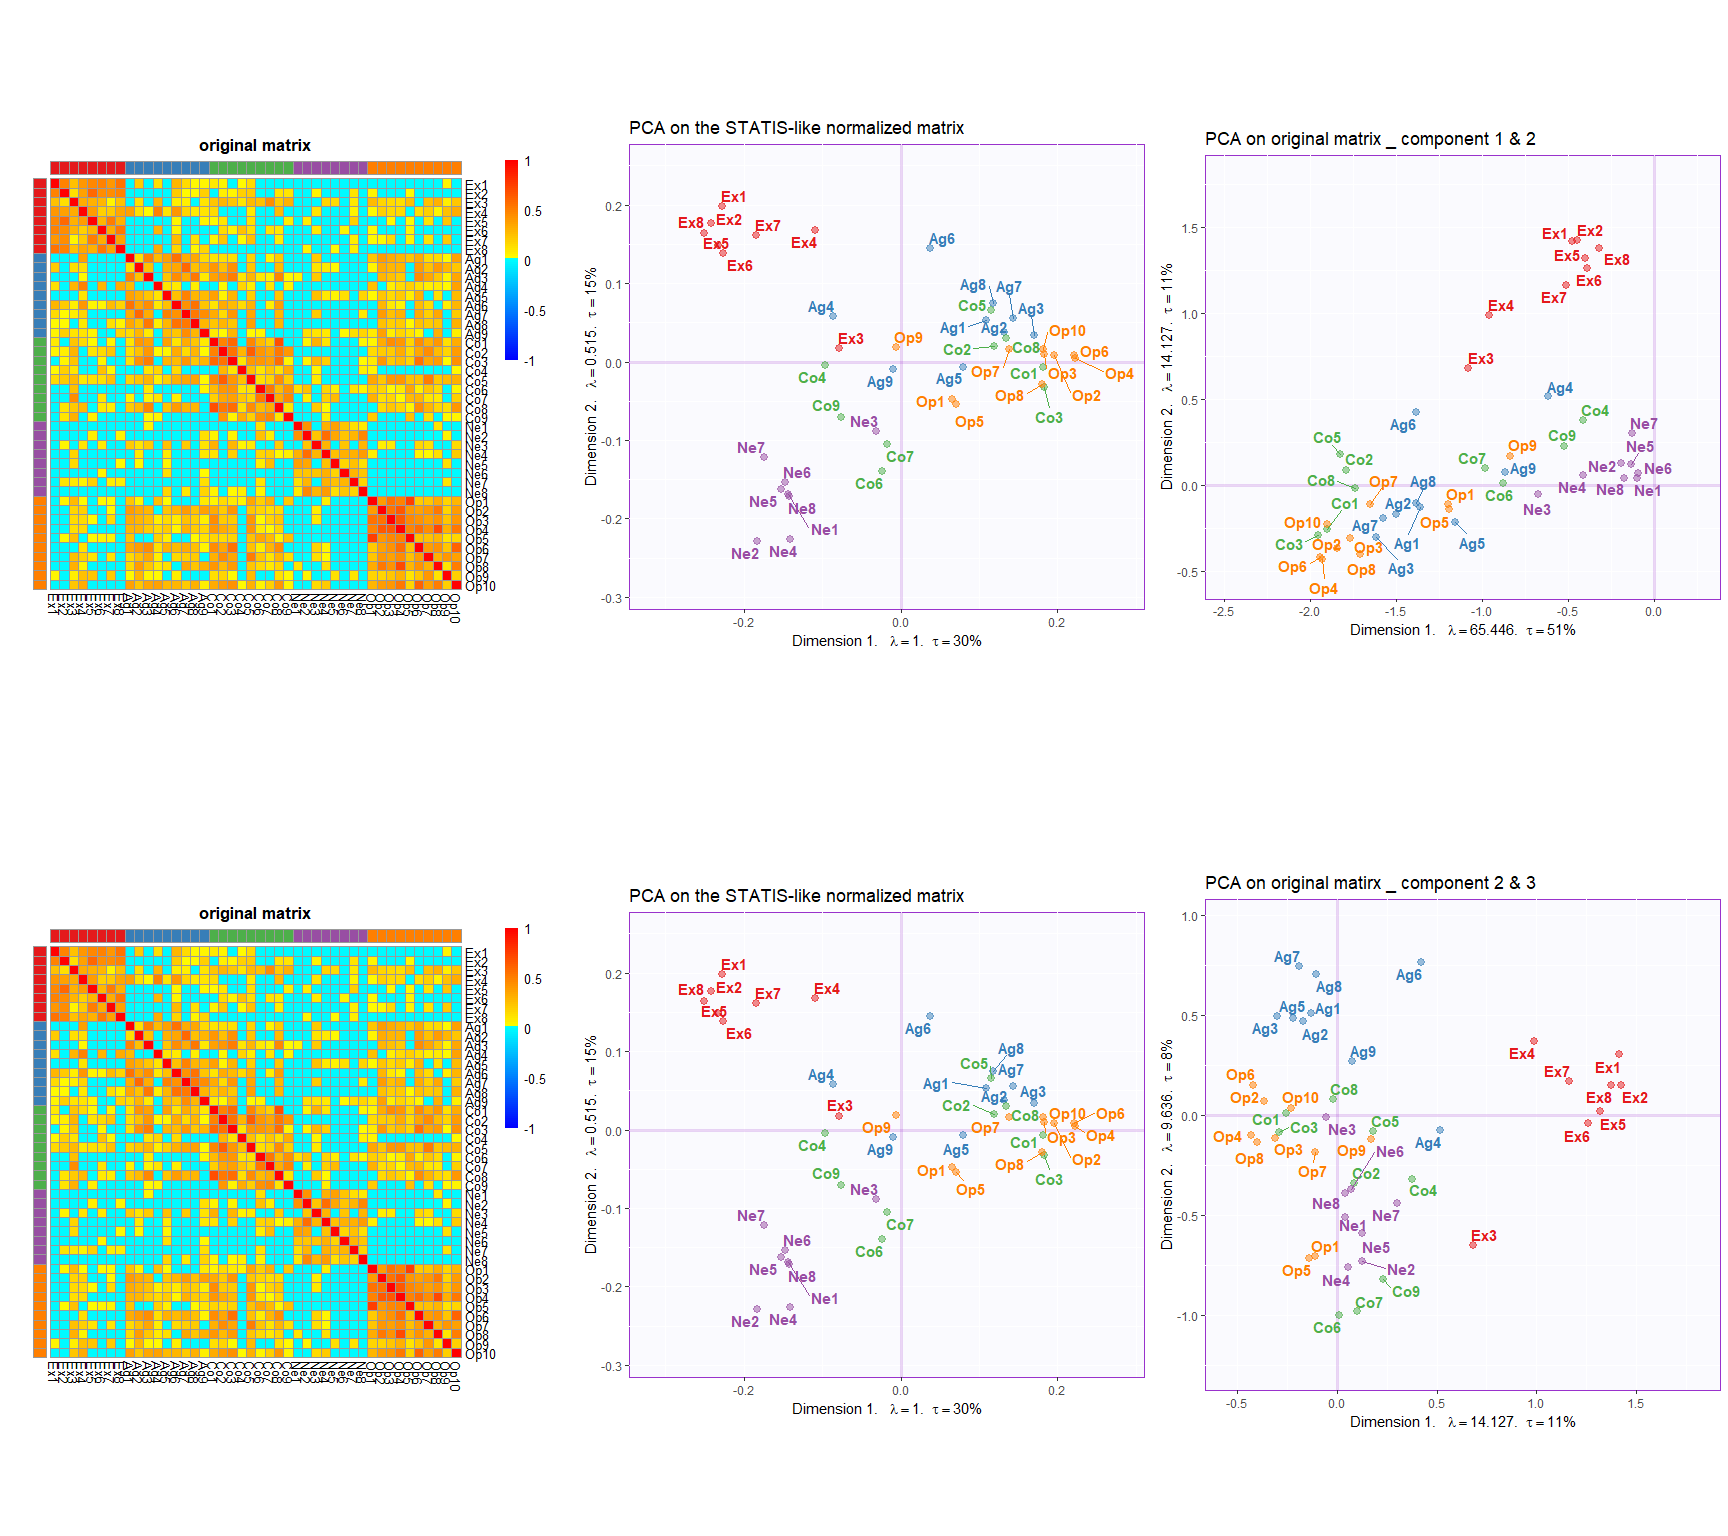
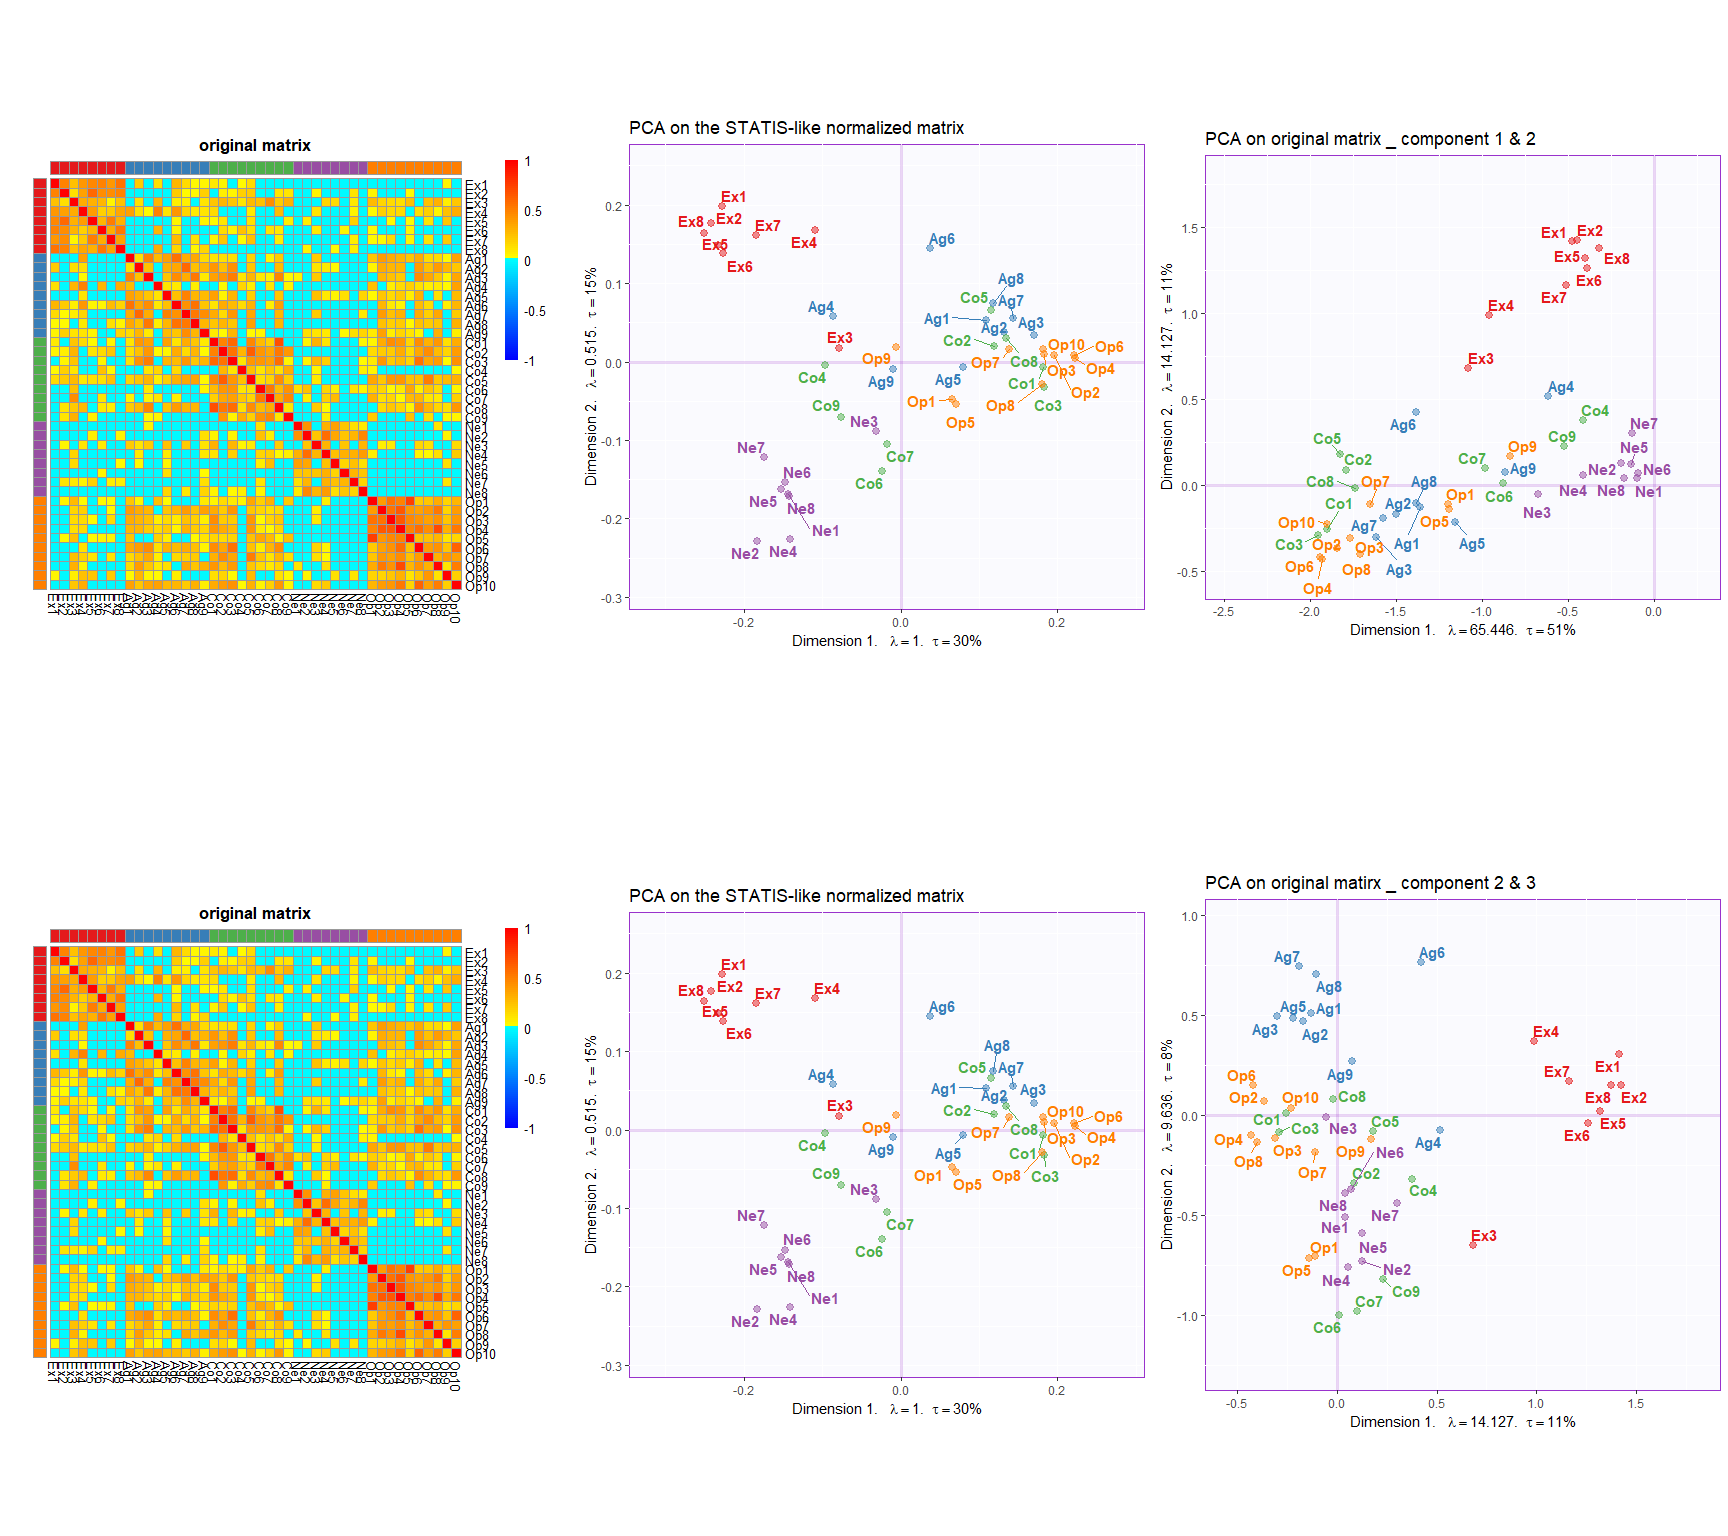
Add question in the end as a short summary

diff --git a/testingNormalization/demo_STATISnorm4r.md b/testingNormalization/demo_STATISnorm4r.md
@@ -211,7 +211,7 @@ endX.pca.res <- epPCA(end.X, center = FALSE, scale = FALSE, DESIGN = group.des, 
 
 #### Compare
 
-    ## [1] "It is estimated that your iterations will take 0.1 minutes."
+    ## [1] "It is estimated that your iterations will take 0.08 minutes."
     ## [1] "R is not in interactive() mode. Resample-based tests will be conducted. Please take note of the progress bar."
     ## ===========================================================================
     ## [1] "It is estimated that your iterations will take 0.1 minutes."
@@ -230,3 +230,10 @@ normalization is similar to a rotation for components 1 and 2. The third
 component is not making much sense.
 
 ![](demo_STATISnorm4r_files/figure-gfm/grid_pca-1.png)<!-- -->
+
+#### Question?
+
+  - The first two components seem to capture what we care about. The
+    question now is: Will these first two components survive if we
+    reshape this normalized matrix and do PCA on the its rectangular
+    form? ……..to be continued
